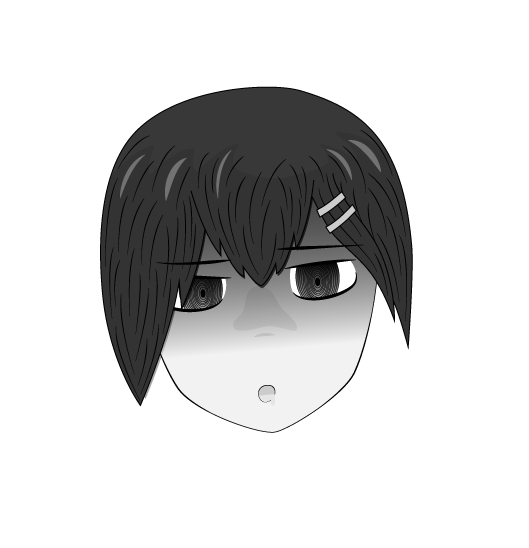
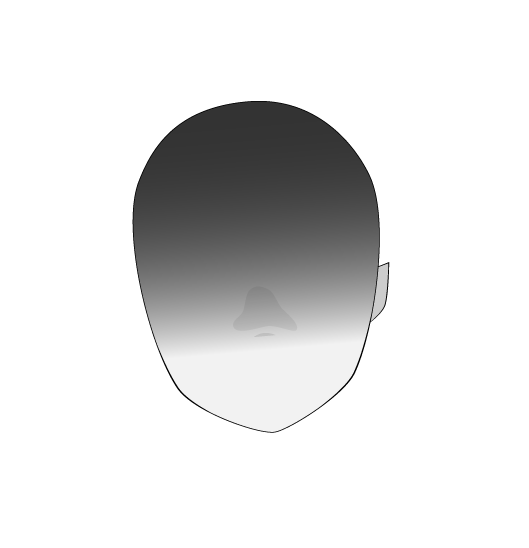
брови и общее улучшение качества картинки на выходе

Changed region(s): [[0.1815, 0.1551, 0.7864, 0.7445], [0.4839, 0.6825, 0.5142, 0.7445], [0.4839, 0.3102, 0.5142, 0.3412]]

diff --git a/animator.py b/animator.py
@@ -1,20 +1,26 @@
 import cv2 as cv
 import numpy as np
 
+import utils
+
 
 class Animator:
     cur_tilt = 0
     res = None
 
     def __init__(self):
-        background = cv.imread("data/animation/background.png", cv.IMREAD_GRAYSCALE)
-        self.background = cv.resize(background, (0, 0), fx=0.5, fy=0.5)
-
-        head = cv.imread("data/animation/head.png", cv.IMREAD_GRAYSCALE)
-        self.head = cv.resize(head, (0, 0), fx=0.5, fy=0.5)
-
-        hair_back = cv.imread("data/animation/hair_back.png", cv.IMREAD_GRAYSCALE)
-        self.hair_back = cv.resize(hair_back, (0, 0), fx=0.5, fy=0.5)
+        self.hair_back = utils.load_image("data/animation/hair_back.png")
+        self.background = utils.load_image("data/animation/background.png")
+        self.head = utils.load_image("data/animation/head.png")
+        self.left_brow = utils.load_image("data/animation/left_brow.png")
+        self.right_brow = utils.load_image("data/animation/right_brow.png")
+        self.mouth = [utils.load_image("data/animation/mouth/1.png"),
+                      utils.load_image("data/animation/mouth/2.png"),
+                      utils.load_image("data/animation/mouth/3.png"),
+                      utils.load_image("data/animation/mouth/4.png"),
+                      # utils.load_image("data/animation/mouth/5.png")]
+                      ]
+        self.hair = utils.load_image("data/animation/hair.png")
 
     def animate(self, angle):
         # поворачиваем лицо
@@ -22,24 +28,40 @@ class Animator:
             self.cur_tilt -= (self.cur_tilt - angle) / 3
         elif angle > self.cur_tilt:
             self.cur_tilt += (angle - self.cur_tilt) / 3
-
+        # лимиты поворота
         if self.cur_tilt > 15:
             self.cur_tilt = 15
         elif self.cur_tilt < -15:
             self.cur_tilt = -15
-        #
 
-    def put_mask(self):
+    def put_mask(self, mouth_shape, left_brow_pos, right_brow_pos):
         rot = cv.getRotationMatrix2D((self.head.shape[0] / 2., self.head.shape[1] / 2. + 70), self.cur_tilt, 1)
+        new_shape = (self.head.shape[1], self.head.shape[0])
 
-        rot_head = cv.warpAffine(self.head, rot, (self.head.shape[1], self.head.shape[0]), flags=cv.INTER_LINEAR,
-                                 borderMode=cv.BORDER_REPLICATE)
-        rot_hair_back = cv.warpAffine(self.hair_back, rot, (self.head.shape[1], self.head.shape[0]),
-                                      flags=cv.INTER_LINEAR, borderMode=cv.BORDER_REPLICATE)
+        rot_head = cv.warpAffine(self.head, rot, new_shape, flags=cv.INTER_LINEAR, borderMode=cv.BORDER_REPLICATE)
+        rot_hair_back = cv.warpAffine(self.hair_back, rot, new_shape, flags=cv.INTER_LINEAR,
+                                      borderMode=cv.BORDER_REPLICATE)
+        rot_mouth = cv.warpAffine(self.mouth[mouth_shape], rot, new_shape, flags=cv.INTER_LINEAR,
+                                  borderMode=cv.BORDER_REPLICATE)
+        rot_hair = cv.warpAffine(self.hair, rot, new_shape, flags=cv.INTER_LINEAR, borderMode=cv.BORDER_REPLICATE)
 
-        self.res = rot_hair_back
-        np.putmask(self.res, self.background > 0, self.background)
-        np.putmask(self.res, rot_head > 0, rot_head)
+        left_brow_shift = np.float32([[1, 0, 0], [0, 1, -left_brow_pos]])
+        right_brow_shift = np.float32([[1, 0, 0], [0, 1, -right_brow_pos]])
+
+        rot_left_brow = cv.warpAffine(self.left_brow, left_brow_shift, new_shape, borderMode=cv.BORDER_REPLICATE)
+        rot_left_brow = cv.warpAffine(rot_left_brow, rot, new_shape, flags=cv.INTER_LINEAR,
+                                      borderMode=cv.BORDER_REPLICATE)
+        rot_right_brow = cv.warpAffine(self.right_brow, right_brow_shift, new_shape, borderMode=cv.BORDER_REPLICATE)
+        rot_right_brow = cv.warpAffine(rot_right_brow, rot, new_shape, flags=cv.INTER_LINEAR,
+                                       borderMode=cv.BORDER_REPLICATE)
+
+        self.res = cv.cvtColor(rot_hair_back, cv.COLOR_BGRA2BGR)
+        self.res = utils.blend_transparent(self.res, self.background)
+        self.res = utils.blend_transparent(self.res, rot_head)
+        self.res = utils.blend_transparent(self.res, rot_mouth)
+        brows = cv.bitwise_or(rot_right_brow, rot_left_brow)
+        self.res = utils.blend_transparent(self.res, brows)
+        self.res = utils.blend_transparent(self.res, rot_hair)
 
     def display(self):
         cv.imshow("Animezator", self.res)

diff --git a/main.py b/main.py
@@ -5,11 +5,15 @@ import cv2 as cv
 import math
 import numpy as np
 import animator as anim
+import utils
 
 detector = dlib.get_frontal_face_detector()
 predictor = dlib.shape_predictor("data/model.dat")
 
 animator = anim.Animator()
+
+left_brow_pos_init = -100
+right_brow_pos_init = -100
 
 cap = cv.VideoCapture(0)
 if not cap.isOpened():
@@ -37,11 +41,32 @@ while True:
         # начинаем изврат
         # определяем поворот лица по двум точкам (36 и 45) - дальние края глаз
         a = shape[45][0] - shape[35][0]
-        b = math.sqrt(a ** 2 + (shape[45][1] - shape[35][1]) ** 2)
+        b = utils.length(shape[45], shape[35])
         alpha = math.degrees(math.acos(a / b) - 1)
+        # определяем положение рта, точки 62 и 66
+        dst = utils.length(shape[66], shape[62]) * (223 / h)
+        mouth_shape = 3
+        if dst < 8:
+            mouth_shape = 0
+        elif dst < 12:
+            mouth_shape = 1
+        elif dst < 17:
+            mouth_shape = 2
+        elif dst < 25:
+            mouth_shape = 3
+        # определяем положение зрачков
+        # правый глаз - точки 36, 39
+        # левый глаз - точки 42, 45
+        # брови
+        # инициализация изначального положения бровей
+        if left_brow_pos_init < 0:
+            left_brow_pos_init = utils.length(shape[44], shape[24]) / float(h)
+            right_brow_pos_init = utils.length(shape[37], shape[19]) / float(h)
+        left_brow_pos_delta = utils.length(shape[44], shape[24]) / float(h) - left_brow_pos_init
+        right_brow_pos_delta = utils.length(shape[37], shape[19]) / float(h) - right_brow_pos_init
         # отрисовка и отображение
         animator.animate(alpha)
-        animator.put_mask()
+        animator.put_mask(mouth_shape, left_brow_pos_delta*100, right_brow_pos_delta*100)
         animator.display()
     else:
         cv.putText(frame, "Face not found", (20, 30), cv.FONT_HERSHEY_SIMPLEX, 0.8, (255, 32, 32))

diff --git a/utils.py b/utils.py
@@ -1,0 +1,26 @@
+import math
+import cv2 as cv
+import numpy as np
+
+
+def length(p1, p2):
+    return math.sqrt(math.pow(p1[0] - p2[0], 2) + math.pow(p1[1] - p2[1], 2))
+
+
+def blend_transparent(background, overlay):
+    overlay_img = overlay[:, :, :3]
+    overlay_mask = overlay[:, :, 3:]
+
+    background_mask = 255 - overlay_mask
+
+    overlay_mask = cv.cvtColor(overlay_mask, cv.COLOR_GRAY2BGR)
+    background_mask = cv.cvtColor(background_mask, cv.COLOR_GRAY2BGR)
+
+    background_part = background / 255.0 * background_mask
+    overlay_part = overlay_img / 255.0 * overlay_mask
+
+    return np.uint8(cv.add(background_part, overlay_part))
+
+
+def load_image(path):
+    return cv.resize(cv.imread(path, cv.IMREAD_UNCHANGED), (0, 0), fy=0.5, fx=0.5)
